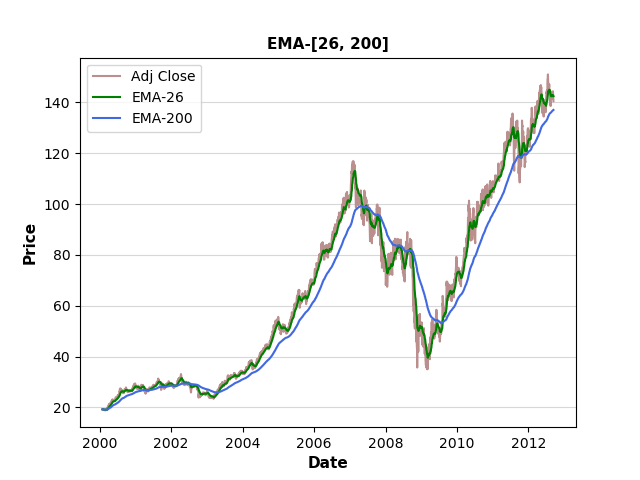
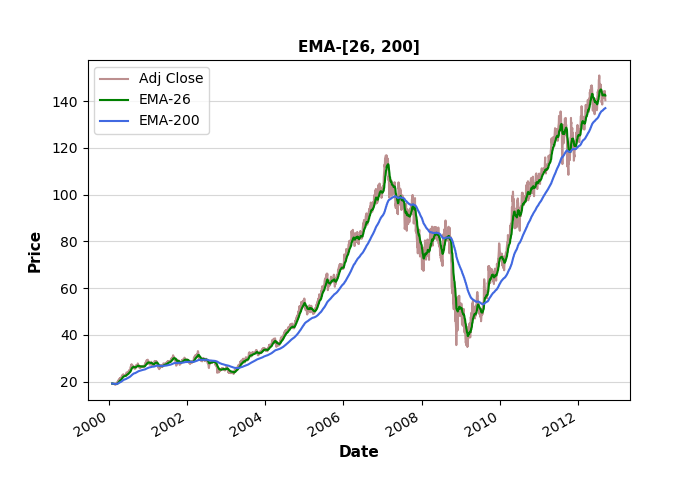
refactor: _technical_indicator module refactoring updates.
The module updated for applying the changes introduced in the _plot
module of the trainingti.utils package. Examples code updated to reflect
these changes. README files updated accordingly.

diff --git a/tradingti/indicators/_technical_indicator.py b/tradingti/indicators/_technical_indicator.py
@@ -7,14 +7,14 @@ enail: vsaveris@gmail.com
 
 License: MIT
 
-Date last modified: 22.01.2020
+Date last modified: 01.02.2020
 
 Python Version: 3.6
 '''
 
 from abc import ABC, abstractmethod
 import pandas as pd
-from ..utils import lineGraph, verticalLineSubplots
+from ..utils import linesGraph
 
 
 class TI(ABC):
@@ -59,7 +59,7 @@ class TI(ABC):
         getTiPlot(): Generates a plot including the input data and the technical 
             indicator calculated values.
             
-        getTiData(): Returns the Technical Indicator values for the whole period.
+        getTiData(): Returns the Technical Indicator values for the whole period
   
         getSignal(): Abstract method for Technical Indicator signal calculation.
 
@@ -91,12 +91,20 @@ class TI(ABC):
             matplotlib object: The generated plot.
         '''
         
+        # If data are Series, then convert them to DataFrame
+        if isinstance(self._input_data, pd.core.series.Series):
+            self._input_data = self._input_data.to_frame()
+            
+        if isinstance(self._ti_data, pd.core.series.Series):
+            self._ti_data = self._ti_data.to_frame()
+            
         if self._subplots:
-            return verticalLineSubplots(data_list = [self._input_data.to_frame(), self._ti_data], 
-                title = self._indicator_name, lines_color = self._lines_color)
+            data = [self._input_data, self._ti_data]
         else:
-            return lineGraph(data = pd.concat([self._input_data, self._ti_data, ], axis = 1), 
-                title = self._indicator_name, lines_color = self._lines_color)
+            data = pd.concat([self._input_data, self._ti_data], axis = 1)
+        
+        return linesGraph(data = data, title = self._indicator_name, 
+            lines_color = self._lines_color)
 
 
     def getTiData(self):

diff --git a/examples/indicators/moving_averages/indicators_ema.py b/examples/indicators/moving_averages/indicators_ema.py
@@ -25,7 +25,7 @@ import tradingti as tti
 df = pd.read_csv('../data/sample_data.csv', parse_dates = True, index_col = 0)
 
 # Calculate the EMA indicator for span period = 200
-ema = EMA(df[['Adj Close']], span_periods = [200])
+ema = EMA(df['Adj Close'].to_frame(), span_periods = [200])
 
 # Save the plot of the calculated Technical Indicator
 ema.getTiPlot().savefig('../figures/indicators_ema_200_example.png')

diff --git a/examples/indicators/moving_averages/indicators_sma.py b/examples/indicators/moving_averages/indicators_sma.py
@@ -25,7 +25,7 @@ import tradingti as tti
 df = pd.read_csv('../data/sample_data.csv', parse_dates = True, index_col = 0)
 
 # Calculate the SMA indicator for sma period = 200
-sma = SMA(df[['Adj Close']], sma_periods = [200])
+sma = SMA(df['Adj Close'].to_frame(), sma_periods = [200])
 
 # Save the plot of the calculated Technical Indicator
 sma.getTiPlot().savefig('../figures/indicators_sma_200_example.png')

diff --git a/examples/indicators/moving_averages/README.md b/examples/indicators/moving_averages/README.md
@@ -2,8 +2,10 @@
 ## Description
 The `tradingti.indicators` package contains the implemented Trading Technical Indicators. The input data used for the below examples can be found under the `data` directory.
 
-### _trend module examples
-The `_trend` module defined under the `tradingti.indicators` package implements Technical Indicators of Trend type. Below are examples of using the implemented indicators.
+### Moving Averages Technical Indicators examples
+The Moving Averages Technical Indicators implemented are:
+- Simple Moving Average (SMA)
+- Exponential Moving Average (EMA)
 
 #### SMA Technical Indicator example
 ```
@@ -46,7 +48,7 @@ The script generates the below plots:
 
 ### EMA Technical Indicator example
 ```
-$python python indicators_ema.py
+$python indicators_ema.py
 
 - Graph ../figures/indicators_ema_200_example.png saved.
 - Graph ../figures/indicators_ema_50_200_example.png saved.
@@ -86,7 +88,7 @@ The script generates the below plots:
 
 ## Prerequisites
 1. python: `version 3.6` or later
-2. tradingti library: `commit c6cf9a2010ea01ecaf1056f8596d0093e965d639` or later
+2. tradingti library: `latest commit in master branch`
 3. matplotlib: `version 3.1.2` or later
 4. pandas: `version 0.25.3` or later
 

diff --git a/examples/indicators/stochastic_oscillators/README.md b/examples/indicators/stochastic_oscillators/README.md
@@ -2,8 +2,10 @@
 ## Description
 The `tradingti.indicators` package contains the implemented Trading Technical Indicators. The input data used for the below examples can be found under the `data` directory.
 
-### _trend module examples
-The `_momentum` module defined under the `tradingti.indicators` package implements Technical Indicators of Momentum type. Below are examples of using the implemented indicators.
+### Stochastic Oscillators Technical Indicators examples
+The Stochastic Oscillators Technical Indicators implemented are:
+- Fast Stochastic Oscillator (FSO)
+- Slow Stochastic Oscillator (SSO)
 
 #### FSO Technical Indicator example
 ```
@@ -44,6 +46,7 @@ The script generates the below plots:
 ### SSO Technical Indicator example
 ```
 $python indicators_sso.py
+
 - Graph ../figures/indicators_sso_example.png saved.
 
 SSO data:
@@ -77,7 +80,7 @@ The script generates the below plots:
 
 ## Prerequisites
 1. python: `version 3.6` or later
-2. tradingti library: `commit 11ef8f420d5f29f813b1e5d1234e48fc3fee7248` or later
+2. tradingti library: `latest commit in master branch`
 3. matplotlib: `version 3.1.2` or later
 4. pandas: `version 0.25.3` or later
 

diff --git a/README.md b/README.md
@@ -28,5 +28,5 @@ In release 0.1 the below technical indicators will be included:
 As the development progresses some usage examples are added to the repository:
 
 - [Utils package usage examples](https://github.com/vsaveris/trading-technical-indicators/tree/master/examples/utils)
-- [Moving Average Indicators package usage examples](https://github.com/vsaveris/trading-technical-indicators/tree/master/examples/indicators/moving_average)
-- [Oscillators Indicators package usage examples](https://github.com/vsaveris/trading-technical-indicators/tree/master/examples/indicators/oscillators)
+- [Moving Averages Indicators usage examples](https://github.com/vsaveris/trading-technical-indicators/tree/master/examples/indicators/moving_averages)
+- [Stochastic Oscillators Indicators usage examples](https://github.com/vsaveris/trading-technical-indicators/tree/master/examples/indicators/stochastic_oscillators)
